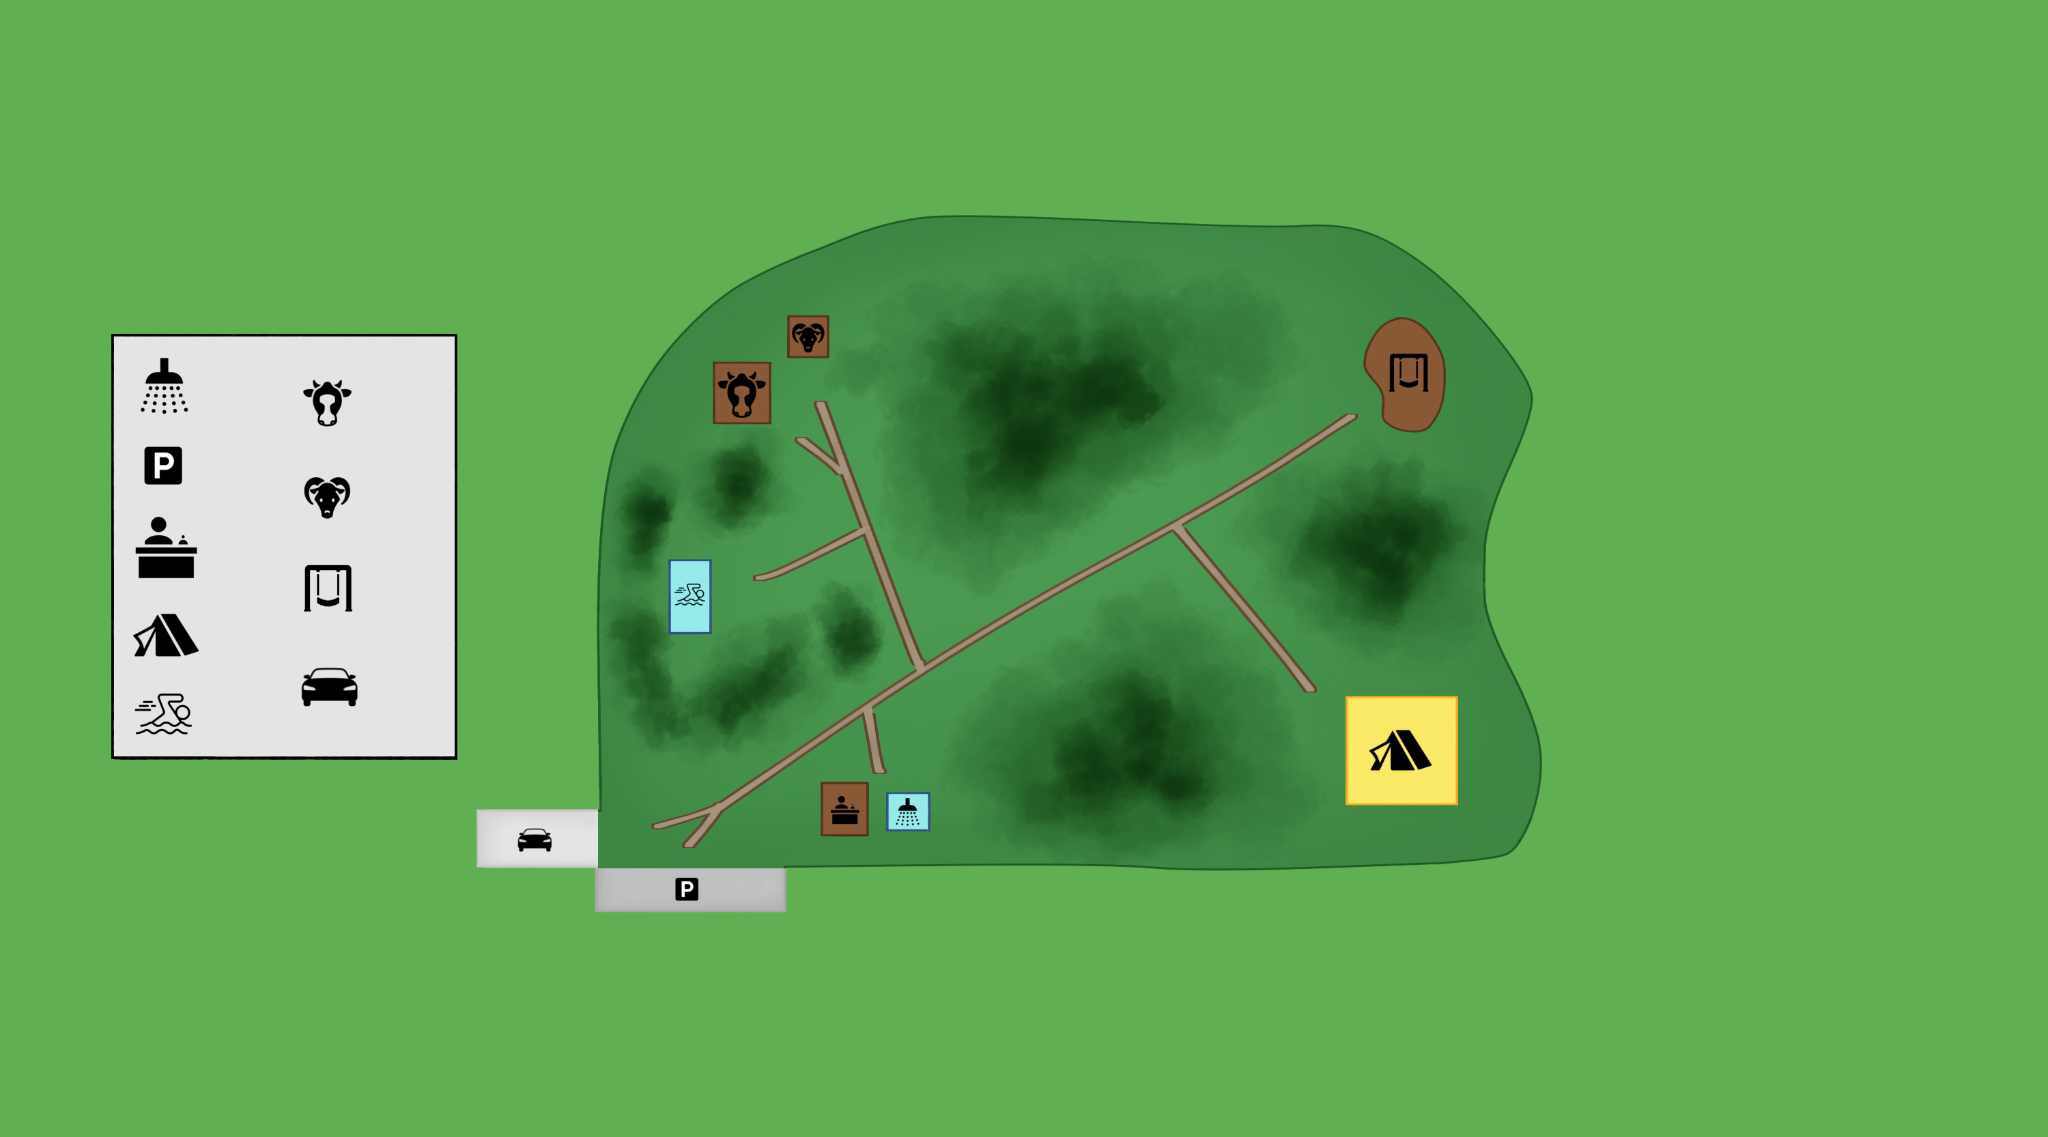
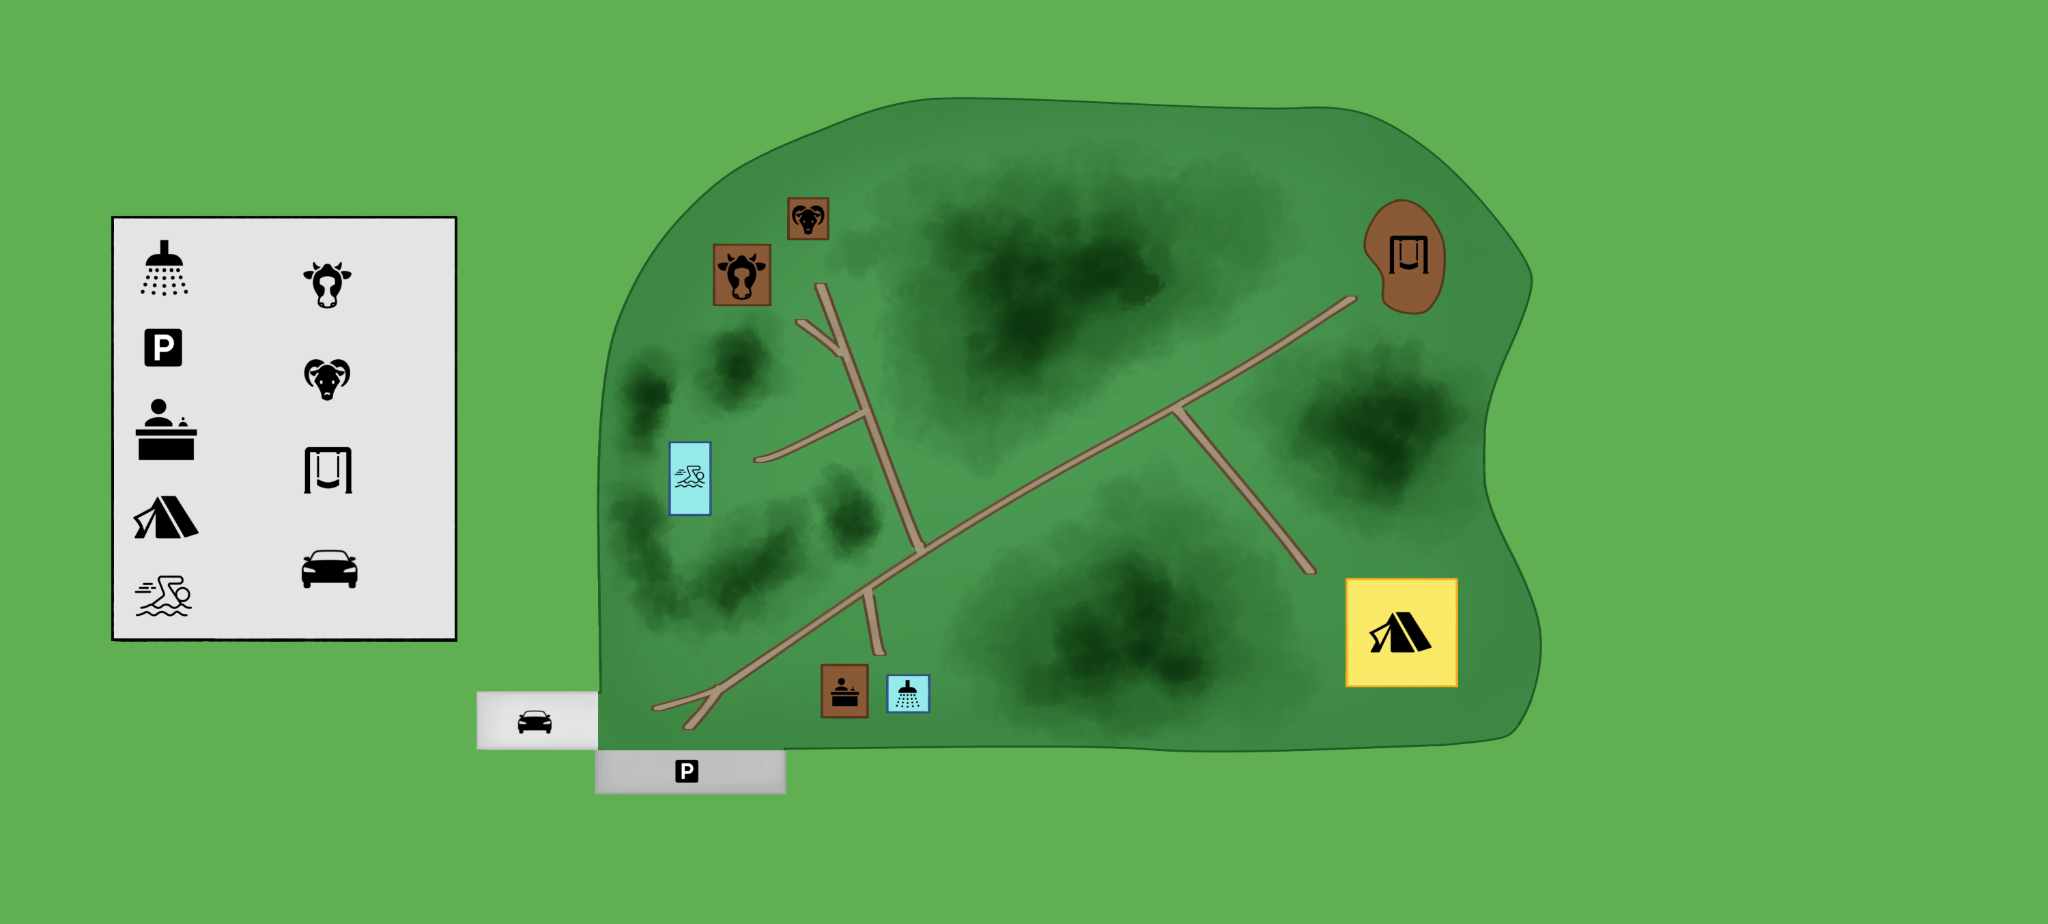
Filter func

diff --git a/public/activiteitenKaart.php b/public/activiteitenKaart.php
@@ -2,7 +2,7 @@
 include __DIR__ . '/../includes/db.php';
 
 // Haal alle activiteiten op
-$selectedTag = $_GET['tag'] ?? 'geen_reservering';
+$selectedTag = $_GET['tag'] ?? '';
 $sql = "SELECT * FROM Activiteiten WHERE tag LIKE '%$selectedTag%'";
 $result = $conn->query($sql);
 
@@ -16,33 +16,29 @@ $result = $conn->query($sql);
 </head>
 
 <body>
+    <!-- <div class="sidebar"> -->
     <div class="sidebar">
         <div>filter opties</div>
         <div>
-
-            <?php
-            // Default value if no tag is set
-            ?>
             <a href="?tag=geen_reservering">Geen reservering nodig</a> <br>
-            <a href="?tag=niet_fysiek">niet fysiek</a> <br>
-            <a href="?tag=fysiek">fysiek</a> <br>
-            <a href="?tag=jong">voor jonge kinderen</a> <br>
-            <a href="?tag=eten">eten & drinken</a> <br>
-            <a href="?tag=informatief">informatief</a> <br>
-            niet fysiek <br>
-            fysiek <br>
-            voor jonge kinderen <br>
-            eten & drinken <br>
-            informatief <br>
+            <a href="?tag=rustig">rustig</a> <br>
+            <a href="?tag=fysiek">fysiek</a><br>
+            <a href="?tag=jong">voor jonge kinderen</a><br>
+            <a href="?tag=eten">eten & drinken</a><br>
+            <a href="?tag=informatief">informatief</a><br>
         </div>
+    </div>
+
+    <div></div>
+
+    <!-- </div> -->
+
+    <div class="activiteiten">
 
         <?php while ($row = $result->fetch_assoc()) {
-            echo "<pre>";
-            print_r($row['naam']);
-            echo "</pre>";
+            echo "<a href='activiteit.php?id=" . $row['id'] . "'>" . $row['naam'] . "</a><br>";
         }
         ?>
-
     </div>
 
 
@@ -53,11 +49,66 @@ $result = $conn->query($sql);
 
 <style>
     body {
-        background-image: url(images/Map_v2_taller.png);
+        background-image: url(../public/images/Map_v2_taller.png);
         background-size: cover;
         height: 100vh;
         width: 50vh;
         background-repeat: no-repeat;
 
     }
+
+    .activiteiten {
+        
+        border-radius: 10px;
+        background-color: rgba(139, 192, 110);
+        padding: 20px;
+        font-family: Arial, Helvetica, sans-serif;
+    }
+
+    .activiteiten a {
+        display: block;
+        padding: 10px 0;
+        color: #333;
+        text-decoration: none;
+        font-size: 20px;
+        transition: color 0.2s;
+    }
+
+    .activiteiten a:hover {
+        color: #0066cc;
+        text-decoration: underline;
+    }
+
+    .sidebar {
+        position: absolute;
+        font-family: Arial, Helvetica, sans-serif;
+        top: 0;
+        left: 80rem;
+        width: 200px;
+        height: 100%;
+        background-color: rgba(255, 255, 255, 0.9);
+        padding: 20px;
+        box-shadow: 2px 0 5px rgba(0, 0, 0, 0.1);
+    }
+
+    .sidebar>div:first-child {
+        font-weight: bold;
+        margin-bottom: 15px;
+        font-size: 16px;
+    }
+
+    .sidebar a {
+        display: block;
+        padding: 8px 0;
+        color: #333;
+        text-decoration: none;
+        font-size: 14px;
+    }
+
+    .sidebar a:hover {
+        color: #0066cc;
+        text-decoration: underline;
+    }
+
+    .
 </style>
